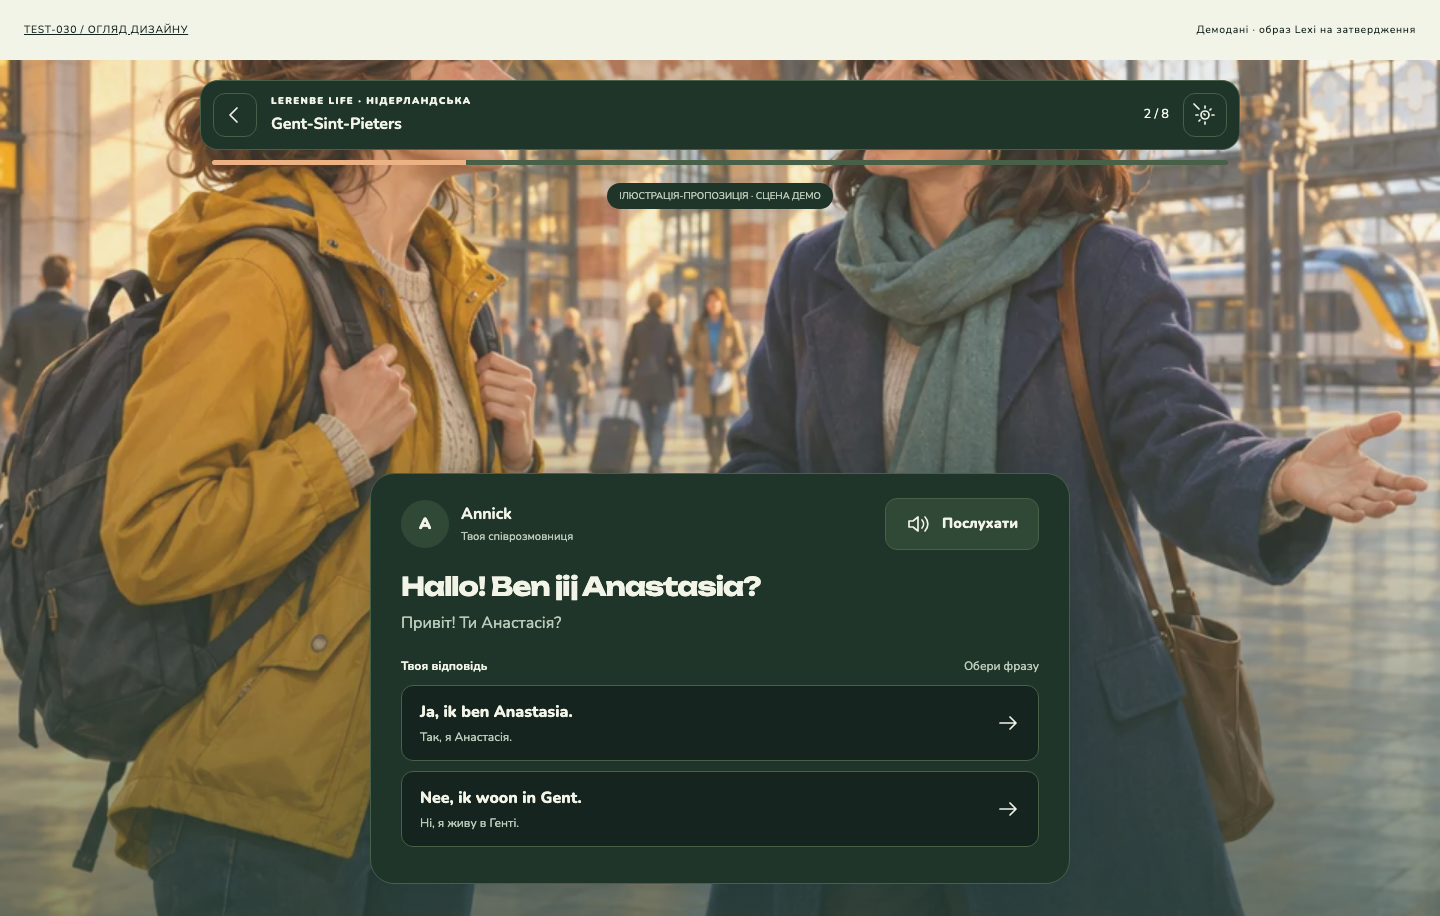
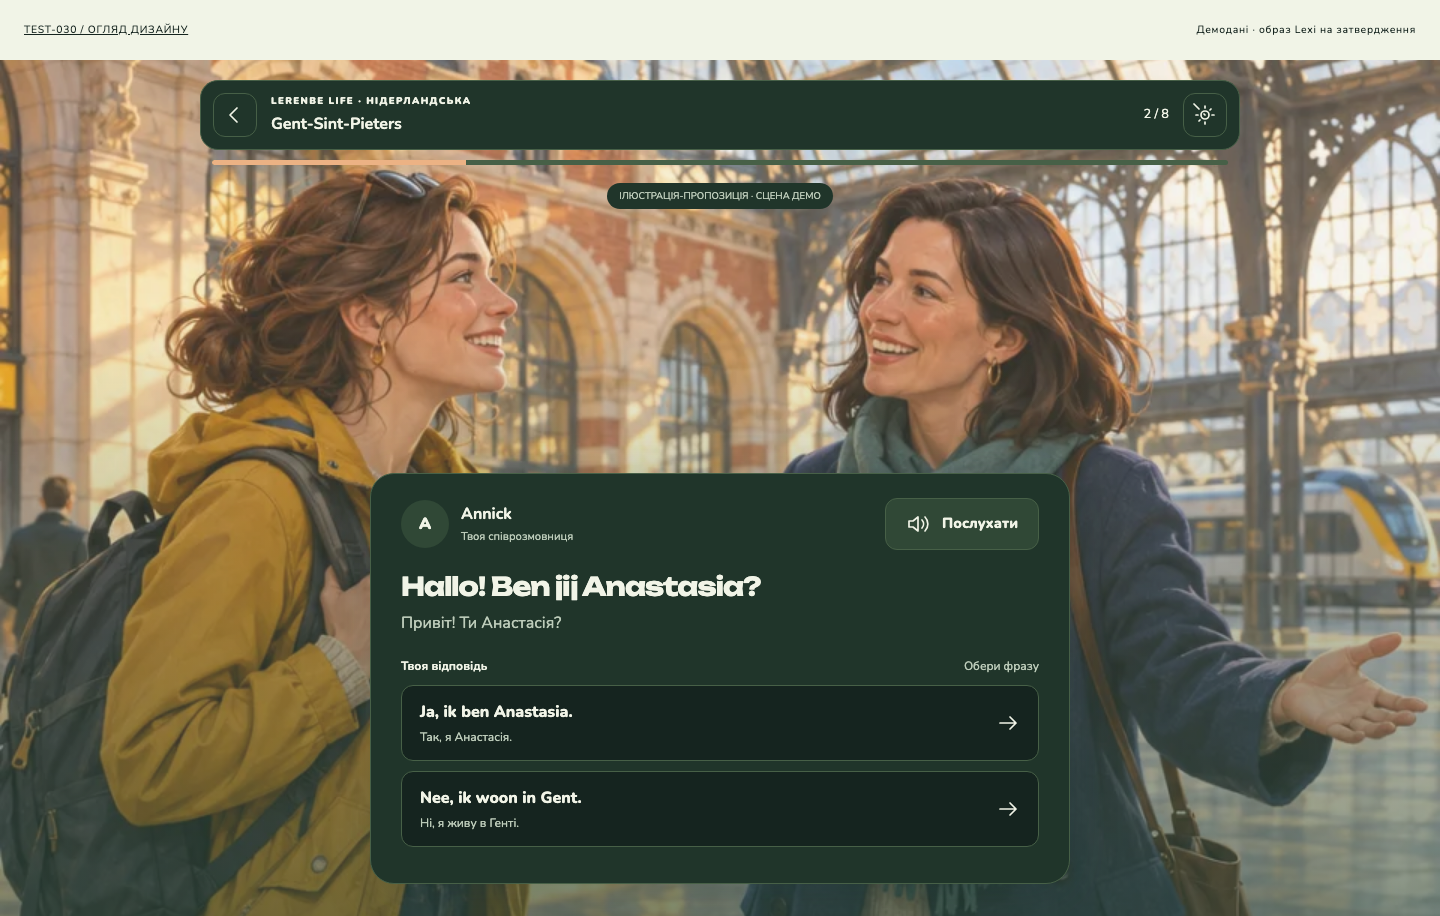
Keep LIFE characters visible in desktop scene framing

diff --git a/design-lab/test-030/design.css b/design-lab/test-030/design.css
@@ -214,7 +214,7 @@ button:hover:not(:disabled){transform:translateY(-1px)}
 .review-actions>*{flex:1}
 .life-screen{position:relative;min-height:calc(100dvh - 44px);padding:20px 30px 32px;isolation:isolate;display:flex;flex-direction:column;align-items:center}
 .life-scene{position:absolute;inset:0;z-index:-2;background:#d6d1b6}
-.life-scene img{height:100%;width:100%;object-position:center 35%;opacity:.8}
+.life-scene img{height:100%;width:100%;object-position:center 18%;opacity:.8}
 .life-scene:after{content:'';position:absolute;inset:0;background:linear-gradient(0deg,#173e3380,transparent 70%)}
 .life-header{display:flex;gap:14px;align-items:center;background:var(--paper);border:1px solid var(--line);border-radius:18px;padding:12px;width:min(100%,1040px)}
 .life-header>div{display:grid;gap:3px;flex:1;min-width:0}

diff --git a/docs/design/test-030/REPORT.md b/docs/design/test-030/REPORT.md
@@ -72,7 +72,8 @@ Chat state selector дає оглянути Welcome / Listening / Thinking / Spe
 3. Re-render забирав keyboard focus і чернетку: фокус відновлюється за дією/полем, чернетка існує в пам’яті незалежно від теми та помилкового стану.
 4. Кнопки виходу без доступної назви: додано явне «Повернутися на головну».
 5. Візуальний перегляд виявив literal `false` у порожніх маркерах Quiz/Audio та надмірно вузький плеєр: виправлено шаблон і ширину grid-кнопки; додано регресійні assertions. Саме проходження layout-тестів цього не виявляло.
-6. Дрібне допоміжне письмо й коротка audit-link: збільшено примітки та ціль посилання до 44px.
+6. Desktop LIFE надто високо кадрував портретну сцену: зміщено фокус так, щоб обидва обличчя залишалися між верхньою навігацією й діалоговою панеллю; повторний візуальний огляд 1440px.
+7. Дрібне допоміжне письмо й коротка audit-link: збільшено примітки та ціль посилання до 44px.
 
 ## Відтворення
 

diff --git a/TESTING-JOURNAL.md b/TESTING-JOURNAL.md
@@ -371,3 +371,5 @@ Total output lines: 142
 - У read-only Beta checks workflow додано Playwright 1.64.1 + Chromium/system dependencies у RUNNER_TEMP та три lab checks. Tests не вимкнено; Pages/import workflows і app/life не змінено. Результат повторного CI фіксується у PR.
 
 - CI 44188940132 після встановлення браузера виявив відсутній origin/main у checkout. Workflow тепер явно отримує тільки test main та PR #13/#14 для SW upgrade/release-chain suites; SW/тести незмінні.
+
+- Фінальний desktop-огляд LIFE виявив обрізані обличчя у вертикальному artwork: скориговано focal position без зміни графіки й повторно знято матрицю та галерею.
